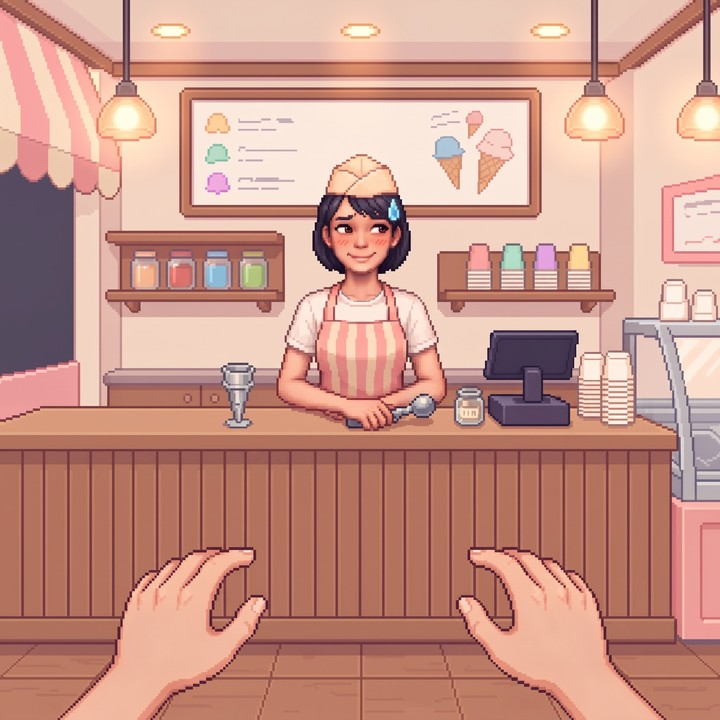
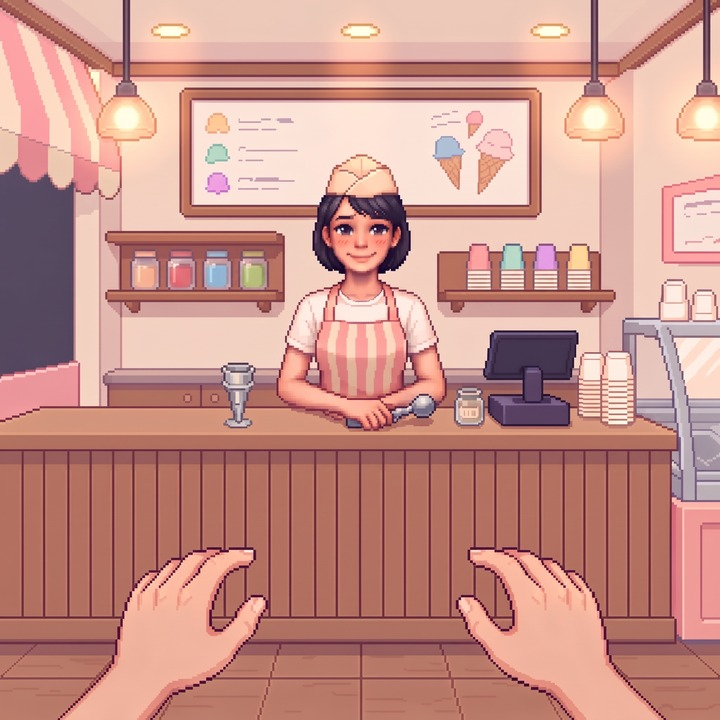
冰淇淋：拿起來的店員換成平靜表情；付錢（PAY_FIX）店員換成尷尬版 pay_oops.jpg
Claude-Session: https://claude.ai/code/session_01VBTS7mk2vKuAnEu5PJMM4Q

diff --git a/games/icecream/index.html b/games/icecream/index.html
@@ -591,7 +591,7 @@ const Game = defineGame({
 
   IMAGES: {
     START: ['images/start.jpg', '🍦'], SCOOPS: ['images/shop.jpg', '🍦'], CONTAINER: ['images/shop.jpg', '🍦'], FLAVOR: ['images/flavors.jpg', '🍨'], SCOOP_CHECK: ['images/flavors.jpg', '🍨'],
-    TOPPING: ['images/topping.jpg', '🍬'], EAT: ['images/shop.jpg', '🍦'], ORDER_CHECK: ['images/shop.jpg', '🍦'], PAY_FIX: ['images/pay.jpg', '💵'], PAY: ['images/pay.jpg', '💵'], PICKUP: ['images/shop_pickup.jpg', '🍦'], HANDOVER: ['images/shop.jpg', '🍦'],
+    TOPPING: ['images/topping.jpg', '🍬'], EAT: ['images/shop.jpg', '🍦'], ORDER_CHECK: ['images/shop.jpg', '🍦'], PAY_FIX: ['images/pay_oops.jpg', '💵'], PAY: ['images/pay.jpg', '💵'], PICKUP: ['images/shop_pickup.jpg', '🍦'], HANDOVER: ['images/shop.jpg', '🍦'],
     END: ['images/end_good.jpg', '🎉'], RESULT: ['images/result.jpg', '📊']
   },
   chosen: [],      // 已經放上去的口味
